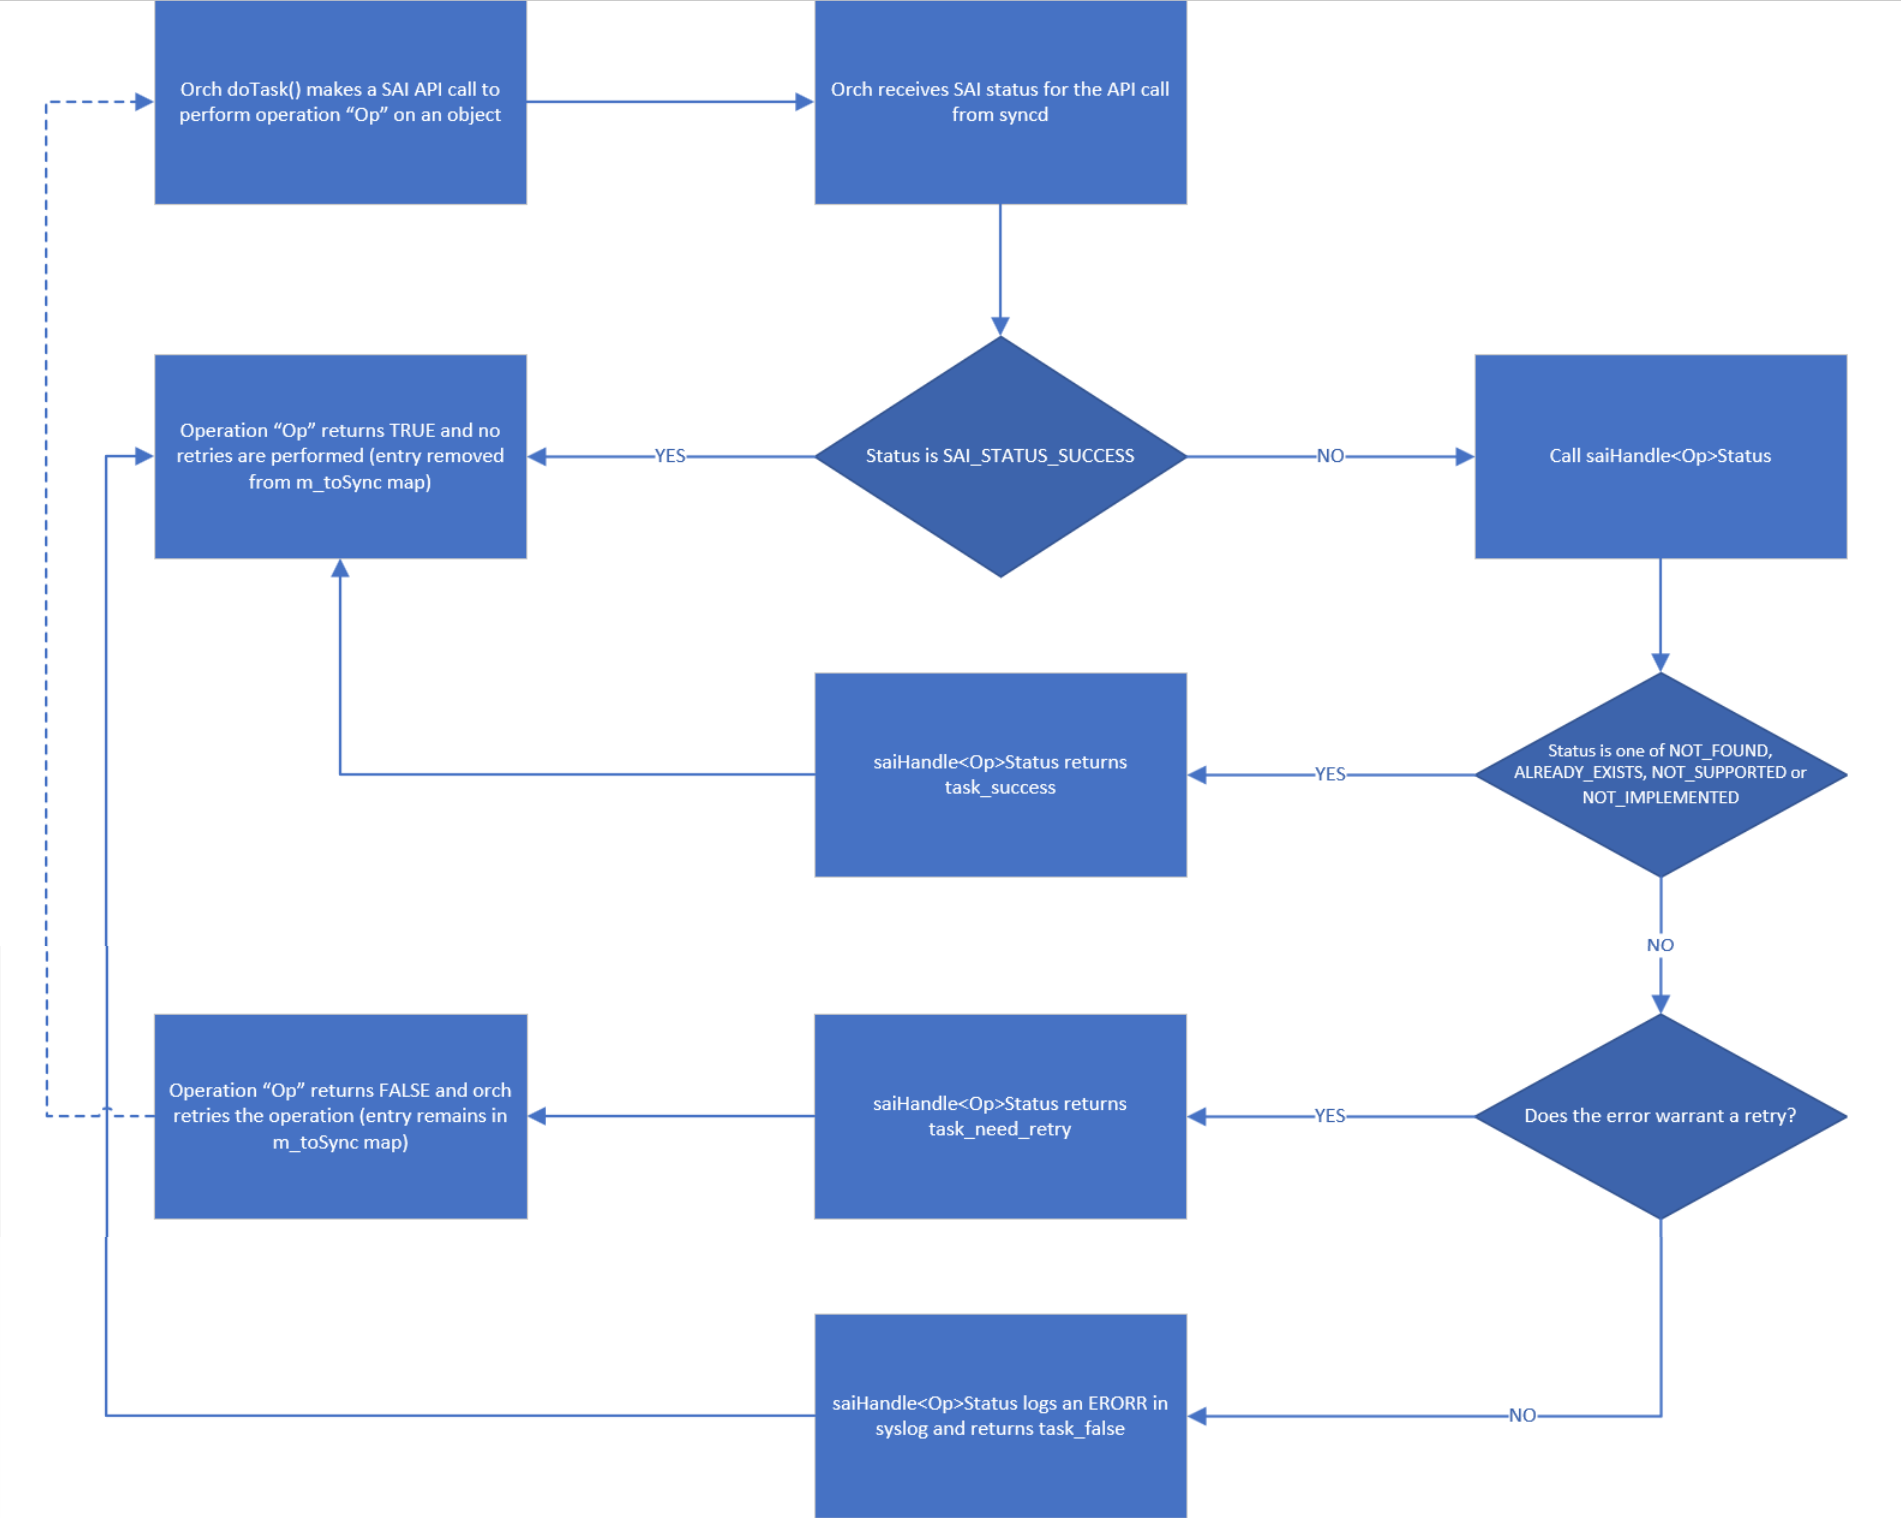
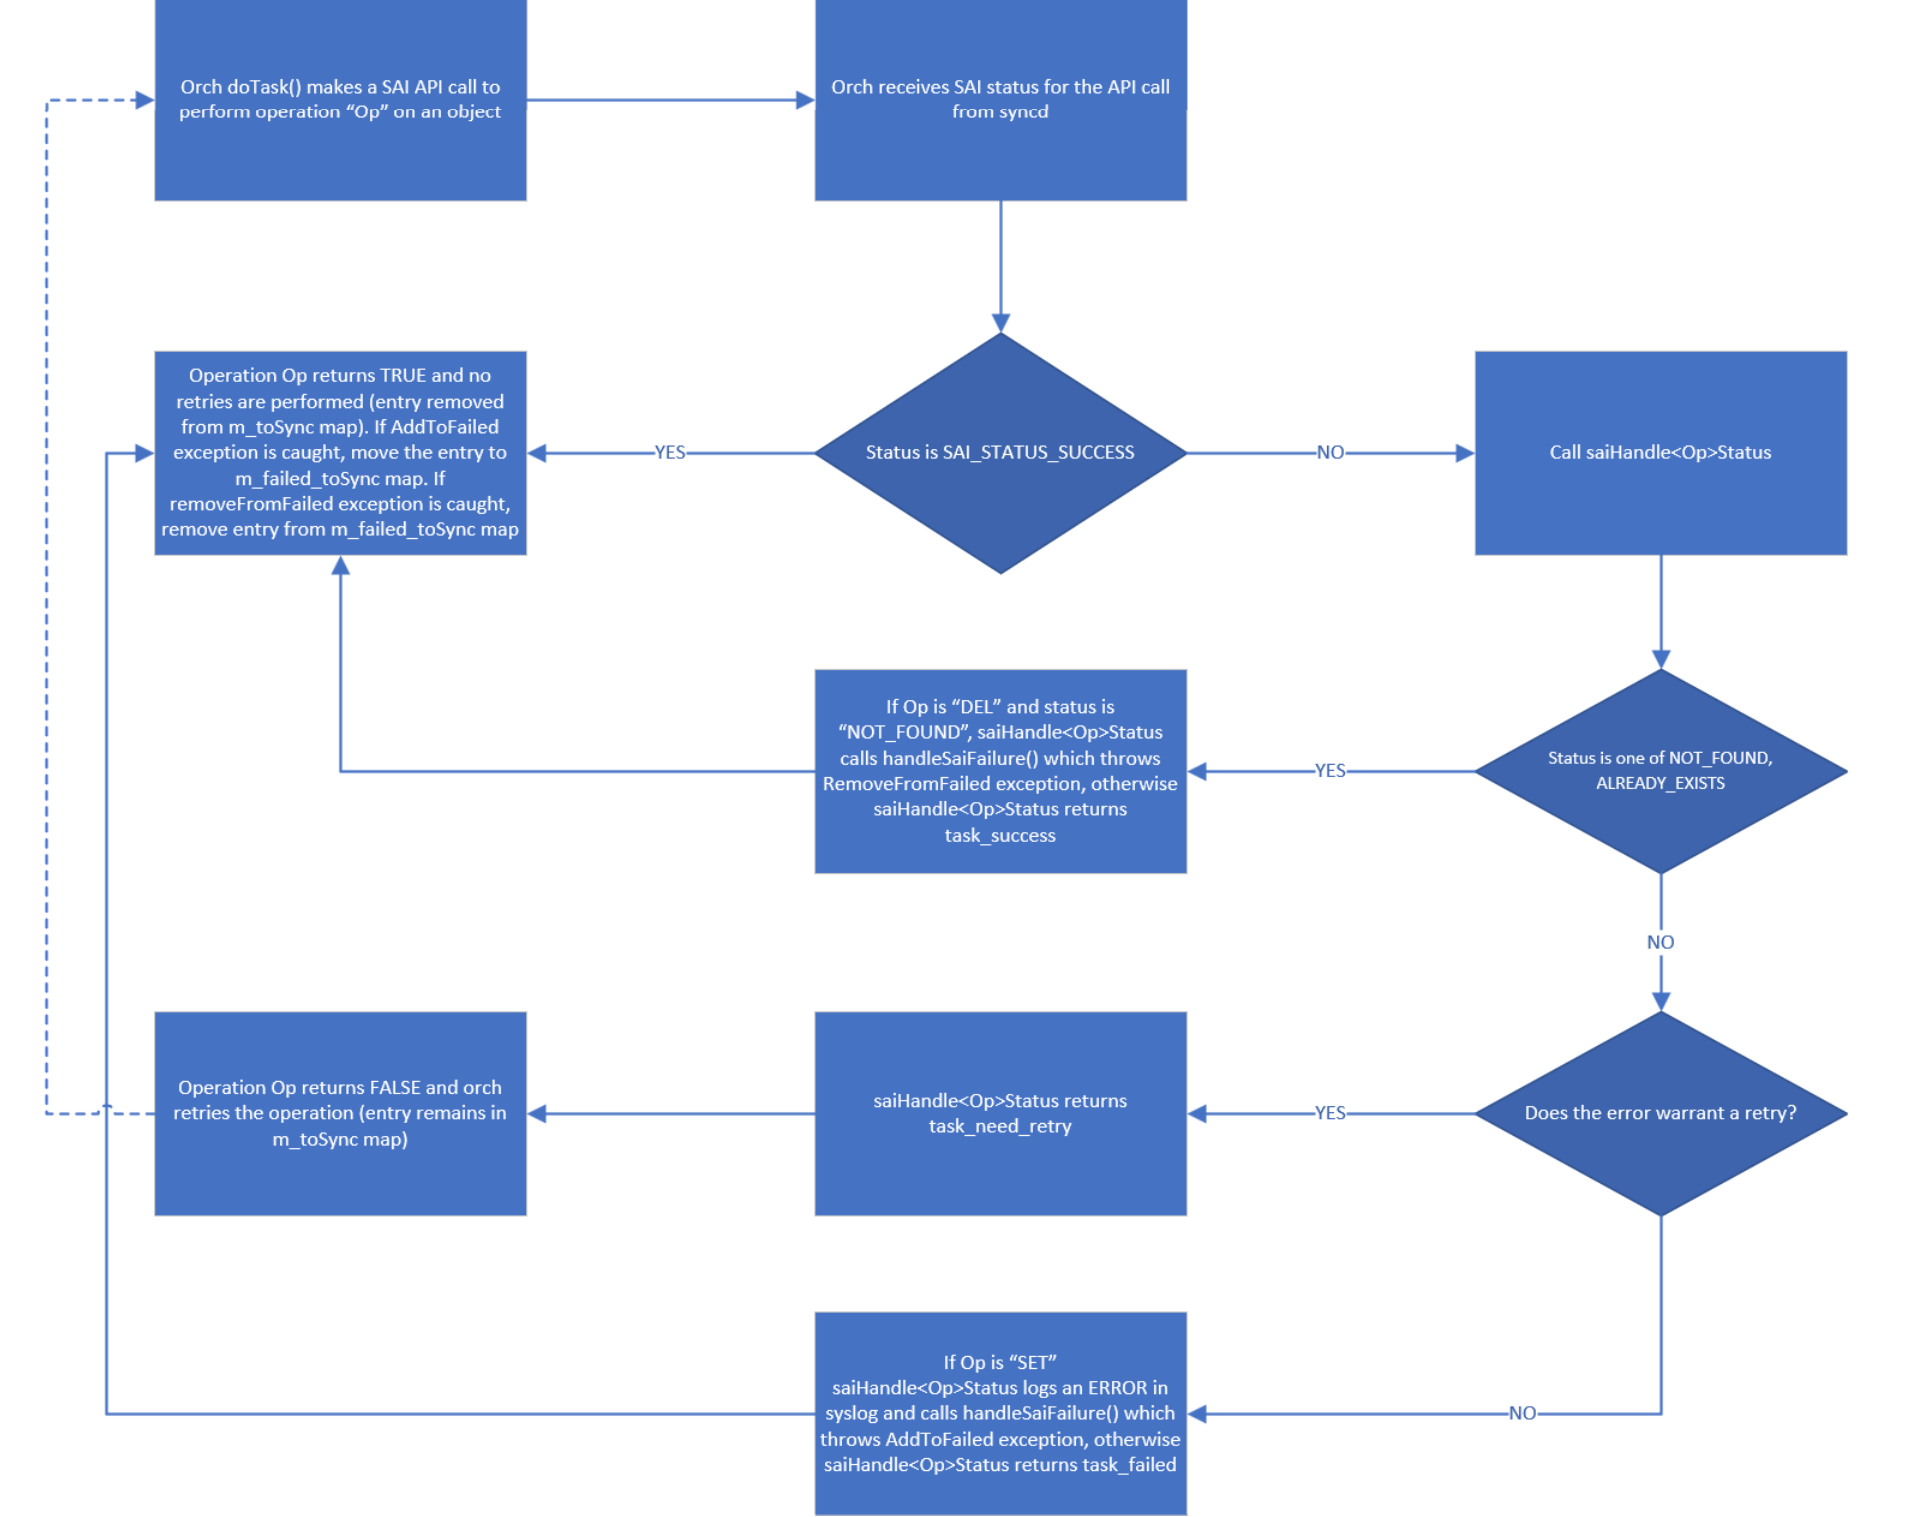
Addressing comments

diff --git a/doc/error-handling/orchagent_error_handling.md b/doc/error-handling/orchagent_error_handling.md
@@ -51,15 +51,15 @@ P.S: The diagram above is intended as a high-level overview of the components th
 
 #### Goals
 
-- Handle all ASIC/SAI programming errors gracefully without causing orchagent to crash or restart
+- Handle all SAI programming errors gracefully without causing orchagent to crash or restart
 - Detect missed notifications from APP_DB to orchagent in SONiC systems that use redis-based communication channels
 - Detect out-of-sync entries between APP_DB and ASIC_DB
 
 #### Non-Goals
 
+- SAI error handling in redis async mode
 - Propagation of errors from orchagent to upper layers via mechanisms like ERROR_DB
-- Detection of missed or pending notifications in SONiC systems that use ZMQ-based communication channels
-
+- SDK/ASIC error handling
 
 #### Motivation
 
@@ -96,12 +96,13 @@ This HLD discusses three potential ways in which orchagent behavior today can be
 When orchagent receives an error notification from syncd for a SAI API call that failed,
 one of three actions will be performed in one of the handleSai<Op>Status() functions in orchagent, depending on whether the operation was a create, set, remove or get:
 
- a. If the error is something that can resolve itself with subsequent retries like for eg: SAI_STATUS_OBJECT_IN_USE or SAI_STATUS_TABLE_FULL, handleSai<Op>Status() will return task_need_retry. Such errors are highlighted in yellow in the table below.
+ a. If the error is something that can resolve itself with subsequent retries like for eg: SAI_STATUS_OBJECT_IN_USE or SAI_STATUS_TABLE_FULL, handleSai<Op>Status() will return task_need_retry. In this case, the entry is not removed from the m_toSync map. No errors are logged in such cases as it can potentially cause log flooding in case of repeated retries. Such errors are highlighted in yellow in the table below.
 
- b. If the error is something that is unlikely to be resolved with a subsequent attempt like for eg: SAI_STATUS_NOT_SUPPORTED, orchagent will call handleSaiFailure() with abort_on_failure set to False by default so orchagent does not exit and handleSai<Op>Status() will return task_failed. This will also log an ERROR syslog message.
+ b. If the error is something that is unlikely to be resolved with a subsequent attempt like for eg: SAI_STATUS_NOT_SUPPORTED, orchagent will call handleSaiFailure() with abort_on_failure set to false by default so orchagent does not exit and handleSaiFailure() will instead throw a custom AddToFailed exception. The exception handler in the approrpiate orch's doTask() will then remove the entry from m_toSync map and move it to a newly introduced m_failed_toSync map if the entry already does not exists there. This will also log an ERROR syslog message and also generate an eventd alert via structured-events channel. Entries in m_failed_toSync map will be removed when a corresponding "DEL" operation is received for the entry.
+
  Such errors are highlighted in red in the table below.
 
- c. If the error is rather harmless like SAI_STATUS_ITEM_ALREADY_EXISTS or SAI_STATUS_ITEM_NOT_FOUND, orchagent will log an INFO syslog message and return task_success such that no retries will be attempted. Such errors are highlighted in green in the table below.
+ c. If the error is rather harmless like SAI_STATUS_ITEM_ALREADY_EXISTS, orchagent will return task_success. In such cases, the entry is removed from m_toSync map and therefore no retries will be attempted.  An INFO log message will also be logged in syslog. In addition, when handling SAI_STATUS_ITEM_NOT_EXISTS status for "DEL" operation, orchagent will also call handleSaiFailure() with abort_on_failure set to false which in turn throws a custom exception RemoveFromFailed to be handled by the appropriate orch's doTask()function. The exception handler will remove the entry from m_failed_toSync map if it exists there. Such errors are highlighted in green in the table below.
 
 ![sai status handling](images/sai_status_handling.png)
 
@@ -121,8 +122,7 @@ The script workflow will be as follows:
   Else
     * Return zero
 
-This script will be called periodically every 15 minutes using monit infrastructure and alert will be generated by monit if the script returns a non-zero status for 3 cycles. This helps in faster detection and mitigation of such issues. \
-It is to be noted that this is not applicable for ZMQ based producers/consumers.
+This script will be called periodically every 5 minutes using monit infrastructure and alert will be generated by monit if the script returns a non-zero status for 3 cycles. This helps in faster detection and mitigation of such issues.
 
 ### 3. Detect out-of-sync entries between APP_DB and ASIC_DB
 
@@ -141,13 +141,13 @@ Call flow:
 
 3. At the end of Orchagent's main while loop after doTask() for all orchs have been called, orchagent will call getPendingEntries() function to retrieve the entries that have yet to be programmed to ASIC_DB only if switchorch's m_getPendingEntries is set to True. This ensures that every orchagent loop does not incur an additional cost of processing pending entries. Pending entries can be obtained from the m_toSync maps associated with each orch's consumer.
 
-4. getPendingEntries() will call the existing getTaskToSync() function which returns all the pending entries as a vector of strings.
+4. getPendingEntries() will call the existing getTaskToSync() which returns all the entries to be synced in m_toSync map as a vector of strings. getPendingEntries() will also call a new function getFailedEntries() which returns all the failed entries in m_failed_toSync map as a vector of strings. Entries in m_toSync map and m_failed_toSync map together form the pending entries that are present in APP_DB, but missing in ASIC_DB.
 
 5. getPendingEntries() will then call gsWitchOrch->sendPendingEntriesResponse() which will  send the pending entries to query_orchagent process using ORCHAGENTQUERYREPLY notification channel and subsequently set m_getPendingEntries to False. Subsequent orchagent main loop iterations will not retrive pending entries until query_orchagent sends another notification after a specified period of time.
 
 6. query_orchagent process will then listen to notifications on ORCHAGENTQUERYREPLY channel and retrieve the pending entries in orchagent.
 
-7. query_orchagent can then compare the most recently obtained set of pending entries to the previously stashed copy of pending entries and determine if any of the entries are stuck in processing beyond a specific timeframe of 5 minutes. If so, an ERROR message can be logged into syslog. This will help debug and mitigate such issues faster.
+7. query_orchagent can then compare the most recently obtained set of pending entries to the previously stashed copy of pending entries and determine if any of the entries are stuck in processing beyond a specific timeframe of 15 minutes. If so, an ERROR message can be logged into syslog. This will help debug and mitigate such issues faster.
  
 ### SAI API
 
@@ -167,7 +167,8 @@ There is no config DB change needed for this functionality.
 ### Warmboot and Fastboot Design Impact
 
 This error handling improvement does not have any requirements or dependencies w.r.t warmboot or fastboot.
-Warm reboot does not currently go through when there are pending orchagent entries that have yet to be programmed to ASIC_DB and that behavior will stay as-is.
+In the going down path, warm reboot does not currently go through when there are pending orchagent entries that have yet to be programmed to ASIC_DB and that behavior will stay as-is. In the going up path after SWSS state restoration, there should be no pending entries in m_toSync map as well as m_failedtoSync map.
+
 
 ### Memory Consumption
 
@@ -179,26 +180,42 @@ No significant additional memory overhead is anticipated in implementing this fu
 
 ### Unit Test cases
 
-The unit test plan for orchagent error handling is documented below:
+The unit test plan for orchagent error handling is documented below.
 
-| S.No | Test description                                             |
-| ---- | ------------------------------------------------------------ |
-| 1  | Gtest to verify that orchagent does not crash when SAI_STATUS_NOT_SUPPORTED is returned |
-| 2  | Gtest to verify that orchagent does not crash when SAI_STATUS_NO_MEMORY is returned |
-| 3  | Gtest to verify that orchagent does not crash when SAI_STATUS_INSUFFICIENT_RESOURCES is returned |
-| 4  | Gtest to verify that orchagent does not crash when SAI_STATUS_INVALID_PARAMETER is returned |
-| 5  | Gtest to verify that orchagent does not crash when SAI_STATUS_ITEM_ALREADY_EXISTS is returned |
-| 6  | Gtest to verify that orchagent does not crash when SAI_STATUS_ITEM_NOT_FOUND is returned |
-| 7  | Gtest to verify that orchagent does not crash when SAI_STATUS_TABLE_FULL is returned |
-| 8  | Gtest to verify that orchagent does not crash when SAI_STATUS_NOT_IMPLEMENTED is returned |
-| 9  | Gtest to verify that orchagent does not crash when SAI_STATUS_OBJECT_IN_USE is returned |
-| 10 | Gtest to verify that orchagent does not crash when SAI_STATUS_NOT_EXECUTED is returned |
+| S.No | Test description                                                                                                          |
+| ---- | ------------------------------------------------------------------------------------------------------------------------- |
+| 1 | Mock test to verify that orchagent does not crash when SAI_STATUS_TABLE_FULL is returned during CREATE operation |
+| 2  | Mock test to verify that orchagent does not crash when SAI_STATUS_ITEM_ALREADY_EXISTS is returned during CREATE operation |
+| 3  | Mock test to verify that orchagent does not crash when SAI_STATUS_INSUFFICIENT_RESOURCES is returned during CREATE/SET operation |
+| 4  | Mock test to verify that orchagent does not crash when SAI_STATUS_NO_MEMORY is returned during CREATE/SET operation |
+| 5  | Mock test to verify that orchagent does not crash when SAI_STATUS_ATTRIBUTE_X is returned during CREATE/SET operation |
+| 6  | Mock test to verify that orchagent does not crash when SAI_STATUS_ATTR_VALUE_X is returned during CREATE/SET operation |
+| 7  | Mock test to verify that orchagent does not crash when SAI_STATUS_ATTR_NOT_SUPPORTED_X is returned during CREATE/SET operation |
+| 8  | Mock test to verify that orchagent does not crash when SAI_STATUS_ATTR_NOT_IMPLEMENTED_X is returned during CREATE/SET operation |
+| 9  | Mock test to verify that orchagent does not crash when SAI_STATUS_NOT_SUPPORTED is returned during SET operation |
+| 10 | Mock test to verify that orchagent does not crash when SAI_STATUS_NOT_IMPLEMENTED is returned during SET operation |
+| 11 | Mock test to verify that orchagent does not crash when SAI_STATUS_INVALID_PARAMETER is returned during SET operation |
+| 12 | Mock test to verify that orchagent does not crash when SAI_STATUS_NOT_EXECUTED is returned during CREATE/REMOVE operation |
+| 13 | Mock test to verify that orchagent does not crash when SAI_STATUS_ITEM_NOT_FOUND is returned during REMOVE operation|
+| 14 | Mock test to verify that orchagent does not crash when SAI_STATUS_OBJECT_IN_USE is returned during REMOVE operation |
+| 15 | Mock test to verify that orchagent does not crash when SAI_STATUS_FAILURE is returned during CREATE/SET/REMOVE operation |
 
 ### System Test cases
 
-TBD
+| S.No | Scenario Description | Legacy orchagent behavior | Expected orchagent behavior with proposed changes|
+|------| -------------------- | ---------------------------| ------------------------------------------------ |
+| 1    | Create more than 128 VRFs via config_db | SAI_STATUS_INSUFFICIENT_RESOURCES when programming route entries followed by orchagent crash | Orchagent should retry the operation and not crash |
+| 2    | Retrieve available CRM routes and try to create more new route entries than available |  SAI_STATUS_TABLE_FULL when programming route entries followed by orchagent crash | Orchagent should retry the operation and not crash |
+| 3    | Retrieve available CRM neighbors and try to add more neighbors than available | SAI_STATUS_TABLE_FULL when programming neighbor entries | Orchagent should retry the operation and not crash |
+| 4    | Retrieve available CRM nexthop groups and try to add more ECMP groups than available | SAI_STATUS_TABLE_FULL when programming nexthop groups | Orchagent should retry the operation and not crash |
+| 5    | Re-learn neighbor after switching from standby to active on a dualtor system | SAI_STATUS_OBJECT_IN_USE when removing nexthop | Orchagent should retry the operation and not crash
+| 6    | Learn same neighbor IP with different MACs over multiple VLANs on a dualtor system | SAI_STATUS_ITEM_NOT_FOUND when setting a neighbor entry attribute | Orchagent should not crash and not retry
+| 7    | Add a duplicate route matching a vlan or loopback IP of a SONiC device | SAI_STATUS_ITEM_ALREADY_EXISTS when programming a duplicate route entry | Orchagent should not crash and not retry
+| 8    | Preform repeated link flaps to trigger ingress buffer space exhaustion in some platforms | SAI_STATUS_INVALID_PARAMETER when setting ingress priority group | Orchagent should not crash and not retry
+| 9    | Perform a warm-reboot test from a version without orchagent SAI error handling to a version that has orchagent SAI error handling | N/A | Orchagent should not crash and there should not be any pending entries in orchagent after SWSS state restoration |
 
-### Open/Action items
+### Open items/Future enhancements
 
+Change the retry logic so that it follows an exponential backoff mechanism to save CPU cycles rather than the current static retry mechanism in SONiC.
 Leverage ERROR_DB that is already available to escalate the errors from Orchagent to upper layers/applications.
 
